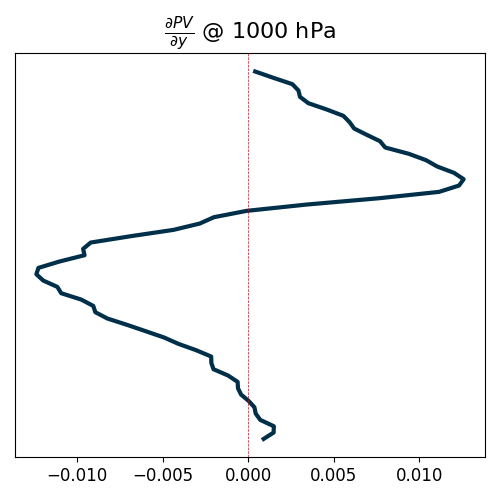
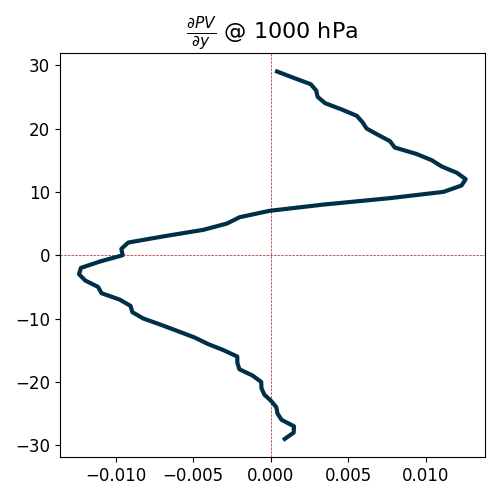
updated figrures

diff --git a/src_barotropic_instability/plot_barotropic_instability.py b/src_barotropic_instability/plot_barotropic_instability.py
@@ -6,7 +6,7 @@
 #    By: daniloceano <danilo.oceano@gmail.com>      +#+  +:+       +#+         #
 #                                                 +#+#+#+#+#+   +#+            #
 #    Created: 2024/04/23 19:56:13 by daniloceano       #+#    #+#              #
-#    Updated: 2024/05/11 00:50:08 by daniloceano      ###   ########.fr        #
+#    Updated: 2024/05/11 00:58:37 by daniloceano      ###   ########.fr        #
 #                                                                              #
 # **************************************************************************** #
 
@@ -119,12 +119,12 @@ def main(filepath='../results_nc_files/composites_barotropic_baroclinic/pv_egr_c
     # Baroclinic PV derivative lon mean
     fig = plt.figure(figsize=(5, 5))
     ax = plt.gca()
-    ax.plot(pv_baroclinic_derivative.mean('x'), np.arange(len(pv_baroclinic_derivative.mean('x'))),
-                 color='#003049', linewidth=3)
     ax.axvline(0, color='#c1121f', linestyle='--', linewidth=0.5)
+    ax.axhline(0, color='#c1121f', linestyle='--', linewidth=0.5)
+    ax.plot(pv_baroclinic_derivative.mean('x'), pv_baroclinic_derivative.mean('x').y,
+                 color='#003049', linewidth=3)
     ax.set_title(r'$\frac{\partial PV}{\partial y}$' + ' @ 1000 hPa', fontsize=TITLE_SIZE)
-    ax.set_yticks([])
-    plt.tick_params(axis='x', labelsize=TICK_LABEL_SIZE)
+    plt.tick_params(axis='both', labelsize=TICK_LABEL_SIZE)
     plt.tight_layout()
     filename = 'pv_baroclinic_composite_derivative_lon_mean.png'
     file_path = os.path.join(FIGURES_DIR, filename)
@@ -154,12 +154,12 @@ def main(filepath='../results_nc_files/composites_barotropic_baroclinic/pv_egr_c
     # Absolute Vorticity derivative lon mean
     fig = plt.figure(figsize=(5, 5))
     ax = plt.gca()
-    ax.plot(absolute_vorticity_derivative.mean('x'), np.arange(len(absolute_vorticity_derivative.mean('x'))),
-                 color='#003049', linewidth=3)
     ax.axvline(0, color='#c1121f', linestyle='--', linewidth=0.5)
+    ax.axhline(0, color='#c1121f', linestyle='--', linewidth=0.5)
+    ax.plot(absolute_vorticity_derivative.mean('x'), absolute_vorticity_derivative.mean('x').y,
+                 color='#003049', linewidth=3)
     ax.set_title(r'$\frac{\partial \eta}{\partial y}$' + ' @ 250 hPa', fontsize=TITLE_SIZE)
-    ax.set_yticks([])
-    ax.tick_params(axis='x', labelsize=TICK_LABEL_SIZE)
+    plt.tick_params(axis='both', labelsize=TICK_LABEL_SIZE)
     plt.tight_layout()
     filename = 'absolute_vorticity_composite_derivative_lon_mean.png'
     file_path = os.path.join(FIGURES_DIR, filename)
